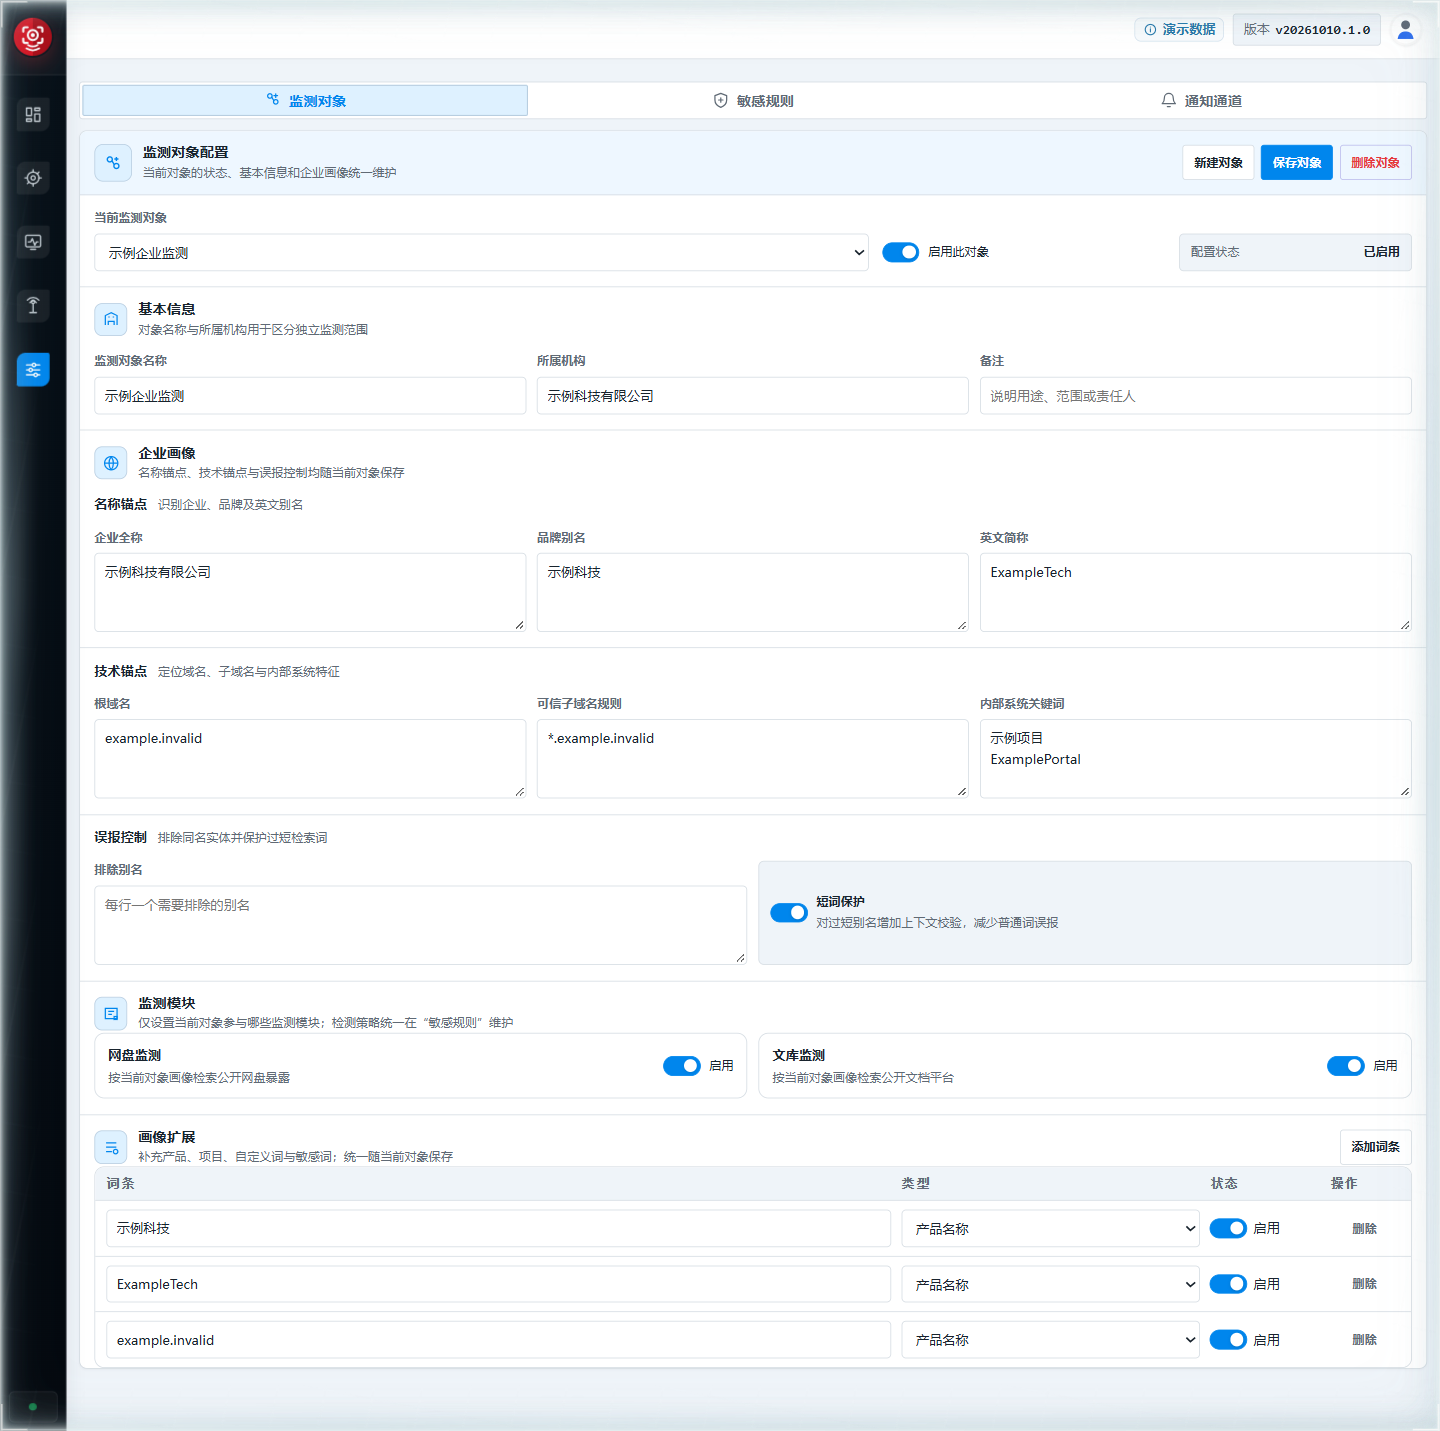
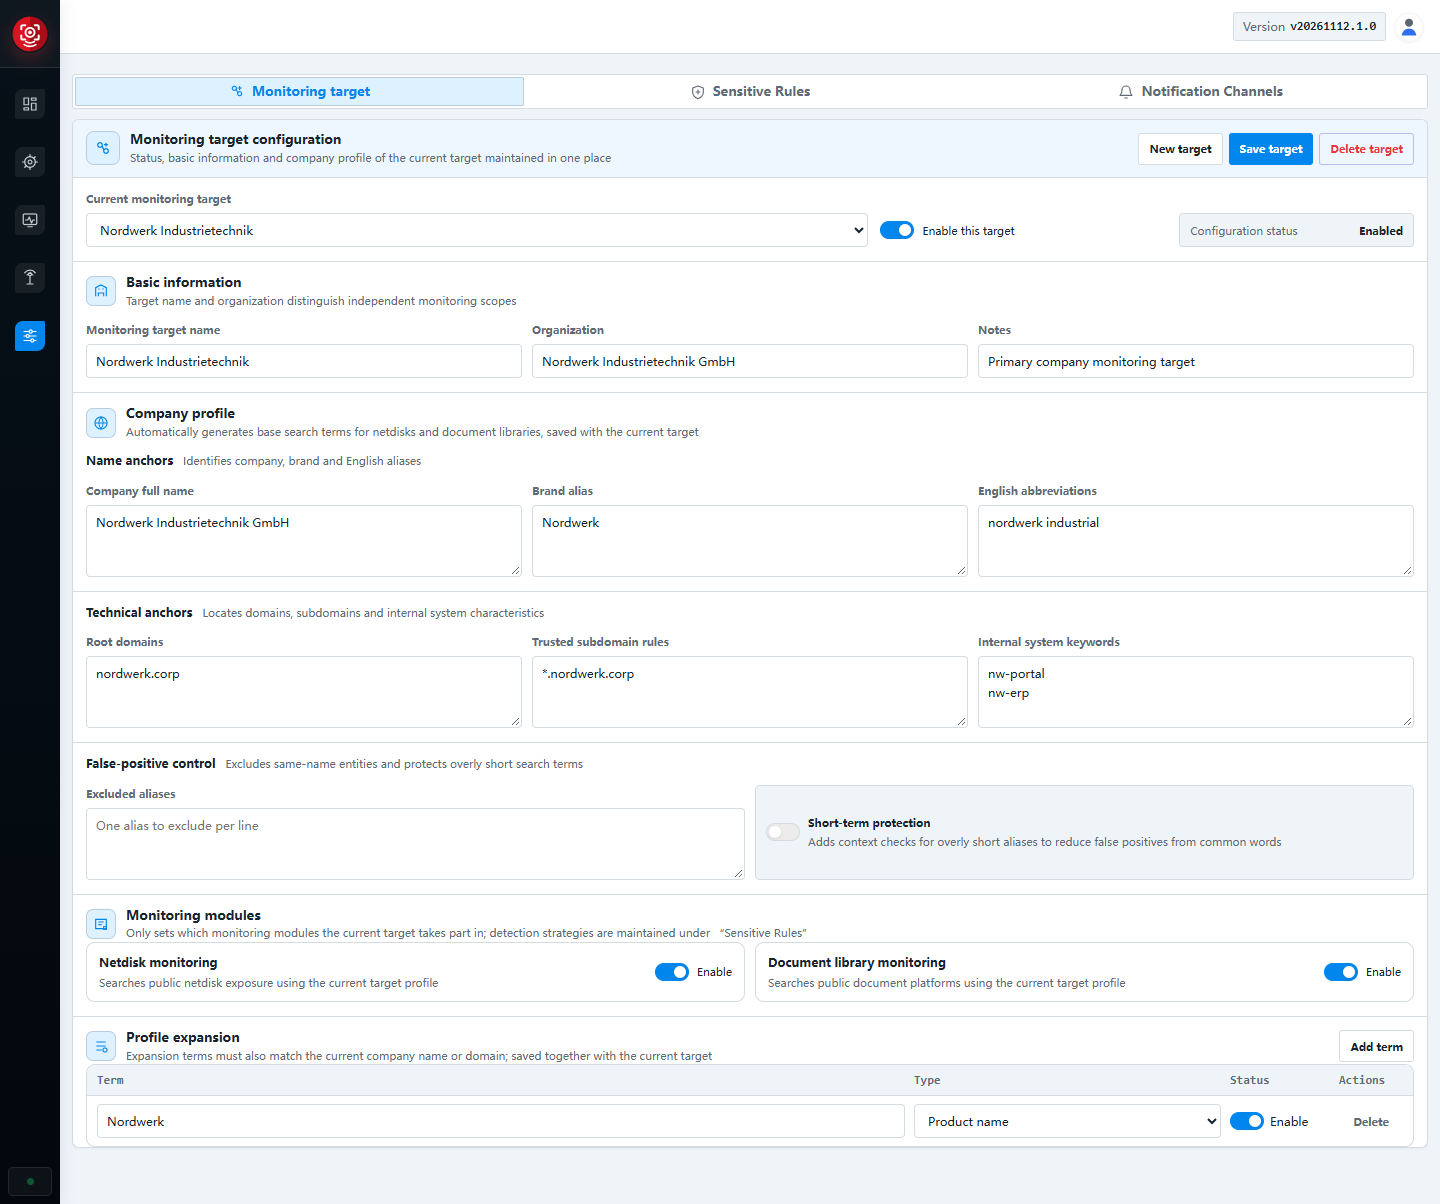
Docs: English UI screenshots and layout fixes for English labels
Replace the nine documentation screenshots with captures of the current
English interface (1440px wide, fictional demo data).

UI fixes found while capturing:
- Wrap long English table headers in code, netdisk/library and site tables
- Let status badges wrap instead of being clipped
- Show the overview asset on its own line and the priority as a label
- Say "Closed" for the circuit breaker and shorten the sort options

diff --git a/threat-intelligence-dashboard/src/prototype/styles.css b/threat-intelligence-dashboard/src/prototype/styles.css
@@ -5138,3 +5138,16 @@ body {
   .monitor-donut-card .monitor-donut-layout { height: auto; grid-template-columns: 1fr; }
   .monitor-donut-card .monitor-donut-legend { width: 100%; }
 }
+
+/* Abyssal English layout adjustments */
+.code-data-table th, .suppressed-code-table th { white-space: normal; letter-spacing: .02em; line-height: 1.35; vertical-align: bottom; }
+.situation-events-table td:nth-child(5) > span { display: block; margin-top: 2px; color: var(--muted); font-size: .92em; }
+.monitoring-data-table th { white-space: normal; letter-spacing: .02em; line-height: 1.35; vertical-align: bottom; }
+.library-data-table .table-title { min-width: 220px; }
+.library-data-table td .badge, .monitoring-data-table td .badge, .monitoring-data-table .result-status { white-space: normal; }
+.library-data-table th:nth-child(1) { width: 21%; }
+.library-data-table th:nth-child(6) { width: 9%; }
+.library-data-table th:nth-child(9) { width: 14%; }
+.library-data-table th:nth-child(10) { width: 7%; }
+.collector-health-table th { white-space: normal; letter-spacing: .02em; line-height: 1.35; vertical-align: bottom; }
+.collector-health-table .status-dot { white-space: normal; }

diff --git a/threat-intelligence-dashboard/src/prototype/screens/intelligence.html b/threat-intelligence-dashboard/src/prototype/screens/intelligence.html
@@ -55,7 +55,7 @@
                 <button class="tab" data-tab="data-leak" role="tab" aria-selected="false">Data leak <b class="num">2</b></button>
                 <button class="tab" data-tab="vulnerability" role="tab" aria-selected="false">Vulnerability <b class="num">2</b></button>
               </div>
-              <label class="intel-sort-label">Sort<select class="select" data-intel-sort aria-label="Sort results"><option value="latest">Report time, newest first</option><option value="oldest">Report time, oldest first</option><option value="severity">Risk level first</option></select></label>
+              <label class="intel-sort-label">Sort<select class="select" data-intel-sort aria-label="Sort results"><option value="latest">Newest first</option><option value="oldest">Oldest first</option><option value="severity">Risk level first</option></select></label>
             </header>
 
             <div class="intel-result-list" id="intel-results" data-table data-server-pagination="true" data-active-tab="all">

diff --git a/threat-intelligence-dashboard/src/prototype/runtime.js b/threat-intelligence-dashboard/src/prototype/runtime.js
@@ -2381,7 +2381,7 @@ export function initializePrototype() {
           [`${item.running_jobs || 0} / ${item.enqueued_jobs || 0}`, ''],
           [item.failed_jobs_24h || 0, ''],
           [`${item.consecutive_failures || 0}/${item.failure_threshold || 3}`, ''],
-          [item.circuit_breaker_open ? 'Cooling down' : 'Close', ''],
+          [item.circuit_breaker_open ? 'Cooling down' : 'Closed', ''],
           [formatDate(item.last_success_at), '']
         ]
         const labels = ['Site', 'Status', 'Running / Queued', '24h Failed', 'Consecutive failures', 'Circuit breaker', 'Last success']

diff --git a/threat-intelligence-dashboard/src/prototype/dataRuntime.js b/threat-intelligence-dashboard/src/prototype/dataRuntime.js
@@ -914,7 +914,7 @@ async function hydrateDashboard(root, state) {
     setCell(cells[3], item.region || item.country)
     setCell(cells[4], item.industry, item.vendor || item.product || item.victim)
     setBadgeCell(cells[5], severityLabel(severityOf(item)), severityOf(item))
-    setCell(cells[6], item.monitoringPriority || (item.isExploited ? 'Exploited' : '—'))
+    setCell(cells[6], item.monitoringPriority ? `${severityLabel(String(item.monitoringPriority).toLowerCase())} priority` : (item.isExploited ? 'Exploited' : '—'))
     setActionCell(cells[7], 'View', detailHref(item))
   })
 
